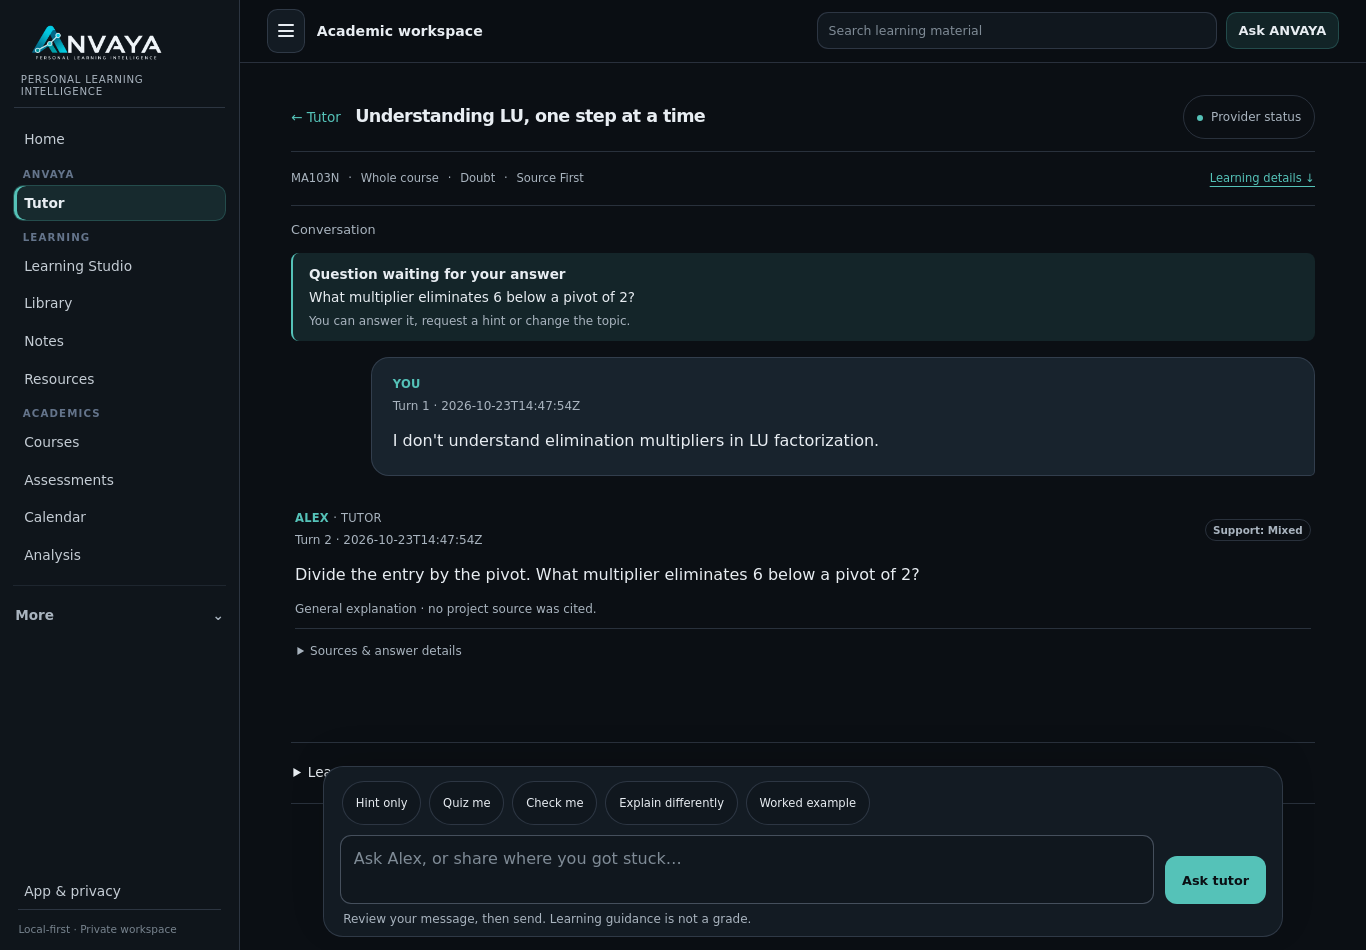
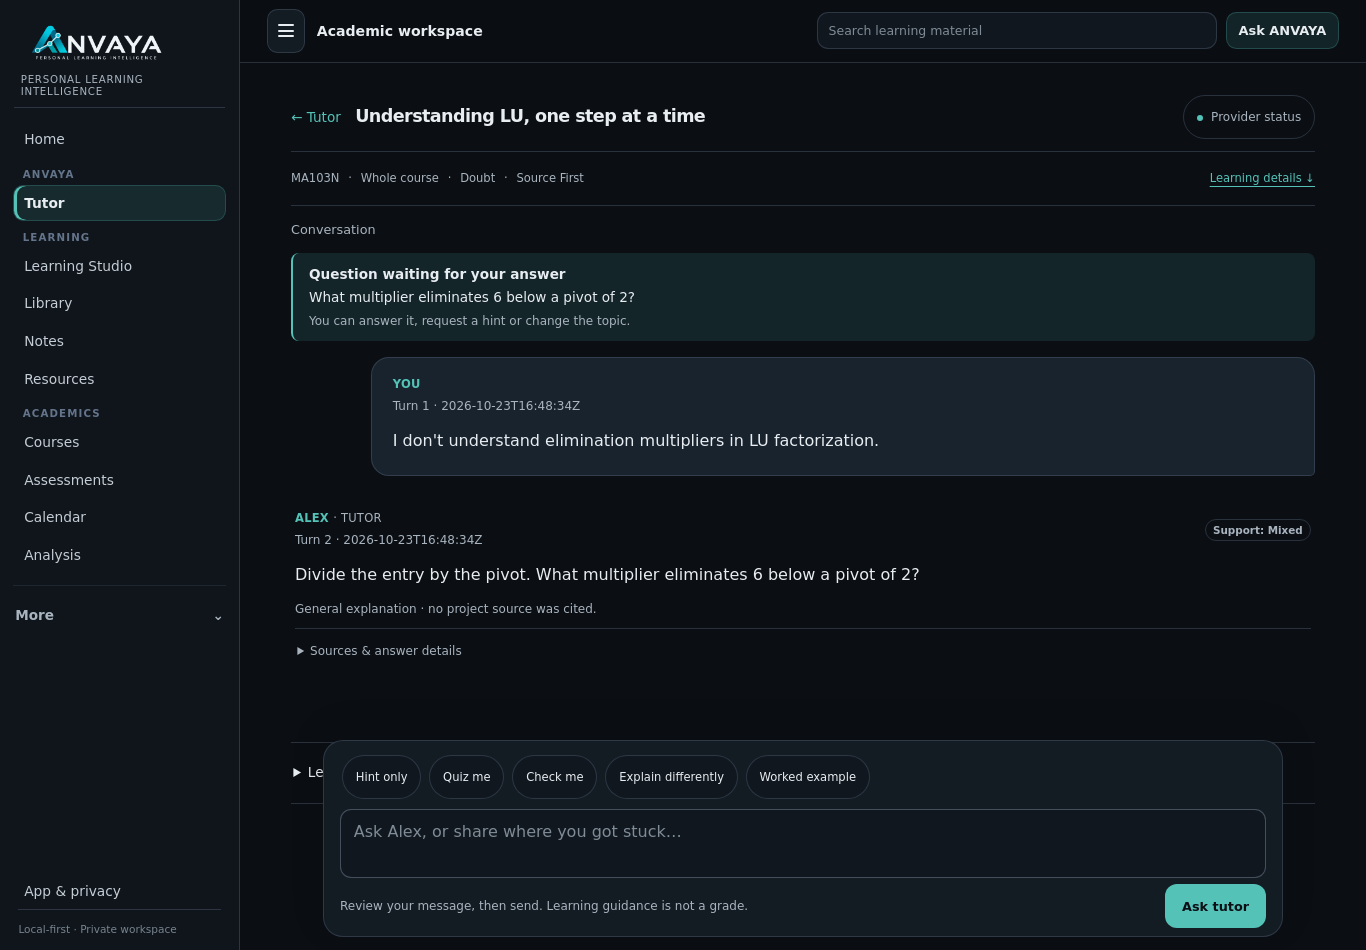
Restore phone-local Tutor index preparation and preserve teaching acceptance through disclosures
Add explicit CSRF-protected production lexical index rebuild with read-only canonical SQLite. Preserve all academic A-K assertions, full-width phone composer, truthful unconfigured state, and authentic light/dark captures.

Changed region(s): [[0.246, 0.7937, 0.6457, 0.9158], [0.8302, 0.8853, 0.9531, 0.9768], [0.246, 0.9463, 0.5534, 0.9768]]

diff --git a/personal_learning_assistant/ui/web/templates/android_device.html b/personal_learning_assistant/ui/web/templates/android_device.html
@@ -6,6 +6,7 @@
 {% if message %}<section class="dashboard-panel" role="status"><p>{{ message }}</p></section>{% endif %}
 <section class="dashboard-panel"><h2>Add a course</h2><form method="post" action="/mobile/device/course"><label>Course code <input name="code" required maxlength="30" placeholder="MA103N"></label><label>Course name <input name="name" required maxlength="150" placeholder="Linear Algebra"></label><label>Semester <input name="semester" maxlength="100" value="Semester 1 First Year"></label><button type="submit">Save course</button></form></section>
 <section class="dashboard-panel"><h2>Add a local PDF</h2><p>Select a PDF from your phone. It is copied into private storage and extracted locally. Scanned pages may need authored text; OCR is unavailable.</p><form method="post" action="/mobile/device/source" enctype="multipart/form-data"><label>Study PDF (up to 20 MB) <input type="file" name="source" accept="application/pdf" required></label><button type="submit">Add PDF to Library</button></form><p><a href="/learning/import">Import an authored Learning package</a> · <a href="/library">Open Library</a> · <a href="/notes/create">Create a note</a></p><p>Learning packages must reference the registered source ID and its original hash. Existing package/source validation remains active.</p></section>
+<section class="dashboard-panel"><h2>Prepare Tutor sources</h2><p>After adding or restoring study PDFs, rebuild the local text search index. This stays on your phone and does not enable online AI. Source-linked generative explanations still require a configured provider.</p><form method="post" action="/mobile/device/tutor-index"><input type="hidden" name="csrf_token" value="{{ tutor_action_csrf }}"><button type="submit">Rebuild local Tutor index</button></form></section>
 <section class="dashboard-panel"><h2>Back up your workspace</h2><p>This ZIP is unencrypted and contains private study records. Choose a location you control. There is no automatic cloud backup.</p><a href="/mobile/device/export" download="ANVAYA-private-backup.zip">Export private backup</a><form method="post" action="/mobile/device/restore" enctype="multipart/form-data"><label>Restore an ANVAYA Android backup <input type="file" name="backup" accept="application/zip,.zip" required></label><button type="submit">Verify and stage restore</button></form><p>Restore takes effect after closing and reopening the app. Current data is retained privately as a recovery copy. This format restores the Android workspace; arbitrary desktop ZIPs are not accepted.</p><a href="/mobile/restart">Save, then close ANVAYA</a></section>
 </div>
 {% endblock %}

diff --git a/personal_learning_assistant/ui/web/templates/tutor_provider_state.html b/personal_learning_assistant/ui/web/templates/tutor_provider_state.html
@@ -1,8 +1,9 @@
 <details class="tutor-provider" id="tutor-provider-state">
-  <summary><span class="tutor-status-dot" aria-hidden="true"></span>{% if config.get('ANDROID_LOCAL_RUNTIME') %}Offline · on this phone{% elif workspace is defined and workspace.provider_configured %}Provider configured{% else %}Provider status{% endif %}</summary>
+  <summary><span class="tutor-status-dot" aria-hidden="true"></span>{% if config.get('ANDROID_LOCAL_RUNTIME') %}Offline · on this phone{% elif workspace is defined %}{% if workspace.provider_configured %}Provider configured{% else %}Not configured{% endif %}{% else %}Provider status{% endif %}</summary>
   <div class="tutor-provider-info">
   {% if config.get('ANDROID_LOCAL_RUNTIME') %}
     <strong>Online AI unavailable in this Android build</strong>
+    <p><a href="/mobile/device">Prepare local Tutor sources</a> after adding or restoring PDFs.</p>
     <p>Saved conversations and supported source-based learning work offline. Generative answers need an online provider.</p>
     <p>Native secure key storage and a restricted HTTPS provider connection still require implementation and testing. No API key is requested or stored by this screen.</p>
   {% elif workspace is defined and workspace.provider_configured %}

diff --git a/personal_learning_assistant/ui/web/templates/agent_session.html b/personal_learning_assistant/ui/web/templates/agent_session.html
@@ -237,8 +237,9 @@
       <button type="button" data-tutor-prompt="Show one worked example and verify the calculation.">Worked example</button>
     </div>
     <div class="tutor-input-row"><textarea id="agent-question" name="question" rows="2" maxlength="4000" required placeholder="Ask Alex, or share where you got stuck…">{{ failed_question if failed_question is defined else (session.prefill_question or "") }}</textarea>
-    <button class="tutor-primary" type="submit">Ask tutor</button></div>
+    </div><div class="tutor-composer-footer">
     <p id="tutor-submit-status" class="microcopy" role="status" aria-live="polite">{{ error_message or "Review your message, then send. Learning guidance is not a grade." }}</p>
+    <button class="tutor-primary" type="submit">Ask tutor</button></div>
   </form>
 
 </section>

diff --git a/personal_learning_assistant/ui/web/static/css/tutor_v3.css b/personal_learning_assistant/ui/web/static/css/tutor_v3.css
@@ -100,3 +100,8 @@ body.tutor-v3 .tutor-start .tutor-monogram {flex-shrink:0}
 body.tutor-v3 .tutor-markdown [data-assessment-math] {display:inline-block;vertical-align:middle;max-width:100%;overflow-x:auto}
 body.tutor-v3 .tutor-markdown .tutor-display-math {display:block}
 body.tutor-v3 #tutor-latest-turn {scroll-margin-top:7rem}
+
+body.tutor-v3 .tutor-input-row {display:block}
+body.tutor-v3 .tutor-composer-footer {display:flex;gap:1rem;align-items:center;margin-top:.4rem}
+body.tutor-v3 .tutor-composer-footer #tutor-submit-status {flex:1;margin:0}
+body.tutor-v3 .tutor-composer-footer .tutor-primary {flex-shrink:0;min-height:44px;font-size:.8rem}

diff --git a/tests/test_android_runtime.py b/tests/test_android_runtime.py
@@ -155,3 +155,34 @@ def test_backup_between_50_and_100_mib_can_reach_restore_validator(tmp_path):
         assert (r.root/'restore-pending.zip').exists()
         r.stop()
     ''')
+
+
+def test_phone_rebuilds_lexical_tutor_index_and_saves_source_only_response(tmp_path):
+    run(tmp_path, r'''
+        from personal_learning_assistant.android_runtime import start
+        from tests.academic_evidence_v23_fixtures import source_pdf
+        import urllib.request, urllib.error, urllib.parse, sqlite3
+        r = start()
+        headers={'Cookie':'anvaya_native='+r.token,'Origin':r.origin}
+        def req(path,data=None,extra=None):
+            return urllib.request.urlopen(urllib.request.Request(r.origin+path,data=data,headers={**headers,**(extra or {})}))
+        boundary='anvaya-synthetic-boundary'
+        upload=(b'--'+boundary.encode()+b'\r\nContent-Disposition: form-data; name="source"; filename="study.pdf"\r\nContent-Type: application/pdf\r\n\r\n'+source_pdf()+b'\r\n--'+boundary.encode()+b'--\r\n')
+        assert req('/mobile/device/source',upload,{'Content-Type':'multipart/form-data; boundary='+boundary}).status==200
+        try:
+            req('/mobile/device/tutor-index',b'csrf_token=invalid')
+            raise AssertionError('Index rebuild accepted bad CSRF')
+        except urllib.error.HTTPError as e: assert e.code==403
+        token=r.app.extensions['tutor_action_csrf']
+        assert req('/mobile/device/tutor-index',urllib.parse.urlencode({'csrf_token':token}).encode()).status==200
+        assert (r.root/'data/tutor_retrieval/current.json').is_file()
+        service=r.app.config['ACADEMIC_AGENT_WEB_SERVICE_FACTORY']()
+        sid=service.create_session(course_id='',mode='concept',source_policy='source_only')
+        body=urllib.parse.urlencode({'csrf_token':token,'request_id':'native-lexical-1','question':'zqxv absent concept'}).encode()
+        result=req('/agent/sessions/'+sid+'/ask',body)
+        assert result.status==200
+        assert len(service.session_view(sid)['turns'])==2
+        assert service.session_view(sid)['turns'][-1]['support_level']=='insufficient'
+        assert req('/agent/sessions/'+sid).status==200
+        r.stop()
+    ''')

diff --git a/tests/test_tutor_ui_v3_browser.py b/tests/test_tutor_ui_v3_browser.py
@@ -146,3 +146,37 @@ def test_provider_failure_keeps_draft_and_retry_nonce_without_automatic_retry(br
         assert len(provider.requests) == 1
     finally:
         page.close()
+
+
+def test_phone_composer_keeps_full_readable_input_width(browser, real_tutor):
+    base, service, path, course, provider, before = real_tutor
+    sid = service.create_session(course_id=course['id'], mode='free', source_policy='source_first')
+    page = browser.new_page(viewport={'width':390,'height':844})
+    try:
+        page.goto(base+'/agent/sessions/'+sid)
+        width = page.locator('#agent-question').bounding_box()['width']
+        available = page.locator('#tutor-ask-form').bounding_box()['width']
+        assert width >= .85 * available
+    finally:
+        page.close()
+
+
+@pytest.mark.parametrize('width', [390,1366])
+def test_light_tutor_uses_saved_app_theme_and_stays_readable(browser, real_tutor, width):
+    base, service, path, course, provider, before = real_tutor
+    sid = service.create_session(course_id=course['id'], mode='free', source_policy='source_first')
+    service.ask(sid, 'Explain this concept simply.')
+    page = browser.new_page(viewport={'width':width,'height':844})
+    try:
+        page.goto(base+'/mobile/settings')
+        page.locator('#mobile-theme').select_option('light')
+        page.goto(base+'/agent/sessions/'+sid)
+        expect(page.locator('html')).to_have_attribute('data-theme','light')
+        assert page.evaluate('document.documentElement.scrollWidth <= innerWidth + 1')
+        assert page.locator('#agent-question').evaluate('el => getComputedStyle(el).color !== getComputedStyle(el).backgroundColor')
+        folder = os.environ.get('ANVAYA_TUTOR_UI_ARTIFACTS')
+        if folder:
+            Path(folder).mkdir(parents=True,exist_ok=True)
+            page.screenshot(path=str(Path(folder)/f'session-light-{width}.png'))
+    finally:
+        page.close()

diff --git a/android/app/src/androidTest/java/in/anvaya/privateapp/OfflineSmokeTest.java b/android/app/src/androidTest/java/in/anvaya/privateapp/OfflineSmokeTest.java
@@ -166,7 +166,9 @@ public class OfflineSmokeTest {
             go(path);screenshot("android-"+path.replace('/','-'));
             assertEquals("No document overflow at "+path,"true",js("document.documentElement.scrollWidth<=innerWidth+1"));
         }
-        go("/agent");
+        go("/mobile/device");
+        js("document.querySelector('form[action=\"/mobile/device/tutor-index\"]').requestSubmit()");
+        waitFor("location.pathname==='/agent' && !!document.querySelector('#session-policy')");
         assertEquals("Honest Android offline provider state","true",js("document.querySelector('#tutor-provider-state').innerText.includes('Offline')"));
         js("document.querySelector('#session-policy').value='source_only';document.querySelector('.tutor-start-form').requestSubmit()");
         waitFor("location.pathname.startsWith('/agent/sessions/') && !!document.querySelector('#agent-question')");
@@ -174,7 +176,7 @@ public class OfflineSmokeTest {
         js("document.querySelector('[data-tutor-prompt]').click()");
         waitFor("document.querySelector('#agent-question').value.includes('one hint')");
         assertEquals("Prompt chip does not submit","true",js("document.querySelectorAll('.agent-turn').length===0"));
-        js("document.querySelector('#agent-question').value='Explain synthetic absent topic zqxv';document.querySelector('#tutor-ask-form').requestSubmit()");
+        js("document.querySelector('#agent-question').value='zqxv absent concept';document.querySelector('#tutor-ask-form').requestSubmit()");
         waitFor("document.querySelectorAll('.agent-turn').length===2 && document.querySelector('#agent-question').value===''");
         screenshot("android-tutor-conversation");
         activity.getSharedPreferences("synthetic-evidence",0).edit().putString("tutorPath",new org.json.JSONArray("["+js("location.pathname")+"]").getString(0)).commit();

diff --git a/personal_learning_assistant/ui/web/android_device.py b/personal_learning_assistant/ui/web/android_device.py
@@ -55,6 +55,24 @@ def register_android_device(app, root):
         return render_template('android_device.html',active_page='mobile-settings',message=
             'Source registered locally. Source ID: '+identity+'. Use this ID when authoring a Learning package; the original PDF hash is preserved.')
 
+    @device.post('/mobile/device/tutor-index')
+    def tutor_index():
+        from .routes import _tutor_action_token_matches
+        if not _tutor_action_token_matches():
+            abort(403)
+        from personal_learning_assistant.retrieval.index_builder import RetrievalIndexBuilder, RetrievalIndexBuildError
+        from personal_learning_assistant.repositories.sqlite.retrieval_source_repository import SQLiteRetrievalSourceRepository
+        try:
+            database=root/'data/learning_assistant.db'
+            with closing(sqlite3.connect(database.absolute().as_uri()+'?mode=ro',uri=True)) as con:
+                # A derived lexical index only: no model download, external call,
+                # academic mutation or stale-index bypass.
+                RetrievalIndexBuilder(SQLiteRetrievalSourceRepository(con),root/'data/tutor_retrieval').build(embedding_provider=None,acknowledge=False)
+        except (RetrievalIndexBuildError,sqlite3.Error,OSError):
+            return render_template('android_device.html',active_page='mobile-settings',
+                message='Tutor index could not be built. Add a PDF with extractable text, then try again. Your study records were kept.'),409
+        return redirect('/agent',code=303)
+
     @device.get('/mobile/device/export')
     def export():
         from personal_learning_assistant.android_backup import export_backup

diff --git a/personal_learning_assistant/android_runtime.py b/personal_learning_assistant/android_runtime.py
@@ -144,6 +144,9 @@ def _start(root_path=None):
         'ACADEMIC_WAL_SNAPSHOT_PROVIDER': publisher.feed.latest,
         'ACADEMIC_WAL_SNAPSHOT_MAX_AGE': 120,
         'MAX_CONTENT_LENGTH': 101 * 1024 * 1024})
+    from personal_learning_assistant.services.academic_agent_web_service import AcademicAgentWebService
+    app.config['ACADEMIC_AGENT_WEB_SERVICE_FACTORY'] = lambda: AcademicAgentWebService(
+        database_path=config.DATABASE_PATH,index_root=root/'data/tutor_retrieval')
     logging.getLogger('werkzeug').disabled = True
     # Academic errors are shown in UI; do not copy records or paths to logcat.
     app.logger.disabled = True

diff --git a/tests/test_tutor23_cloud_acceptance.py b/tests/test_tutor23_cloud_acceptance.py
@@ -93,6 +93,7 @@ class Journey:
         self.page.locator("#session-topic").select_option(topic)
         self.page.locator("#session-policy").select_option(policy)
         self.page.locator("#session-mode").select_option(mode)
+        self.page.locator(".tutor-session-options > summary").click()
         self.page.locator("#session-title").fill("Disposable A–K acceptance · scripted provider")
         self.page.get_by_role("button", name="Create tutor session").click()
         self.session_id = self.page.url.rsplit("/", 1)[-1]

diff --git a/tests/test_ui_v2_protected_browser.py b/tests/test_ui_v2_protected_browser.py
@@ -166,6 +166,7 @@ def test_protected_surfaces_retain_shell_controls_and_dark_layout(protected_brow
             page.locator("#ls-focus").click(trial=True)
             page.locator("#ls-contents").click(trial=True)
         else:
+            page.locator("#tutor-mentor > summary").click()
             page.locator("#mentor-course").select_option("MA103N")
             page.get_by_role("button", name="Show mentor advice", exact=True).click()
             expect(page.locator("#mentor-course")).to_have_value("MA103N")

diff --git a/docs/tutor_ui_v3/README.md b/docs/tutor_ui_v3/README.md
@@ -14,7 +14,7 @@ Conversation before expandable learning/memory details; distinct You/Alex messag
 All 360/390/768/1366 screenshots in `screenshots/` are genuine running Chromium + Flask + synthetic SQLite, not mockups. Baseline source is integration 72a2ff2; after captures include the review corrections in the same final feature commit as this file. Timestamp text varies. Native API31 screenshots are separate CI artifacts, not these browser captures.
 
 ## Verification record
-Baseline 21 tests passed. Initial feature checks: 29 HTTP cases, 15 Chromium journeys, 30 Node contracts. Independent review: 38 focused cases passed; four Important edge cases identified, then corrected. Inline maths and newest-reply regressions each failed before the fix; sticky-context and Mentor-result checks also failed before correction. Final focused HTTP/browser/runtime gate: 29 passed; additional simulated provider-failure/retry case verifies safe error text, preserved draft/nonce and zero automatic retry. Synthetic providers test integration, not genuine model quality.
+Baseline 21 tests passed. Initial feature checks: 29 HTTP cases, 15 Chromium journeys, 30 Node contracts. Independent review: 38 focused cases passed; four Important edge cases identified, then corrected. Inline maths and newest-reply regressions each failed before the fix; sticky-context and Mentor-result checks also failed before correction. Focused HTTP/browser/runtime gate before index setup: 29 passed; scripted A–K + UI: 69 passed; local theme/input-width checks: 3 passed; phone runtime/backup/fixture checks with the lexical rebuild: 15 passed; additional simulated provider-failure/retry case verifies safe error text, preserved draft/nonce and zero automatic retry. Synthetic providers test integration, not genuine model quality.
 
 Full/native/Android status is recorded on draft PR #38 and its exact-head Actions artifacts; pending is not a pass. The interrupted first local full run is not counted. Exactly four inherited unavailable private IKS fixtures must remain disclosed skips. No physical owner-phone certification or new live-provider A–K claim.
 
@@ -27,6 +27,10 @@ Full/native/Android status is recorded on draft PR #38 and its exact-head Action
 6. Reopen Tutor. Screenshots and recording are allowed in the real activity. Review private records before sharing.
 
 This is a debug test APK. No public release or repository-committed release signing key. The emulator-installed APK is the authoritative artifact; an independent build job may use a different debug key.
+
+## Local source setup
+
+After adding or restoring PDFs, open App & privacy → Manage courses & backups → **Rebuild local Tutor index**. It builds a lexical index on the phone using production source fingerprints, with canonical SQLite opened read-only. Missing or changed indexes fail closed until rebuilt; no silent model downloads or source-policy bypass. Indexed source answers still need a configured provider when generation is required. An insufficient-evidence response is deterministic, not an offline language model.
 
 ## Online AI / privacy
 **Online AI remains unavailable in this Android increment.** It is explicitly labelled in Tutor; no API key form, unsafe key persistence, broad outbound exception or embedded CI secret was added. Native Keystore key lifecycle, explicit consent/configuration/test/removal, restricted HTTPS transport, SSRF/redirect/TLS controls and real-provider acceptance remain required. There are therefore no working phone online-AI setup steps yet. Desktop host provider behavior remains available through its existing configuration.
